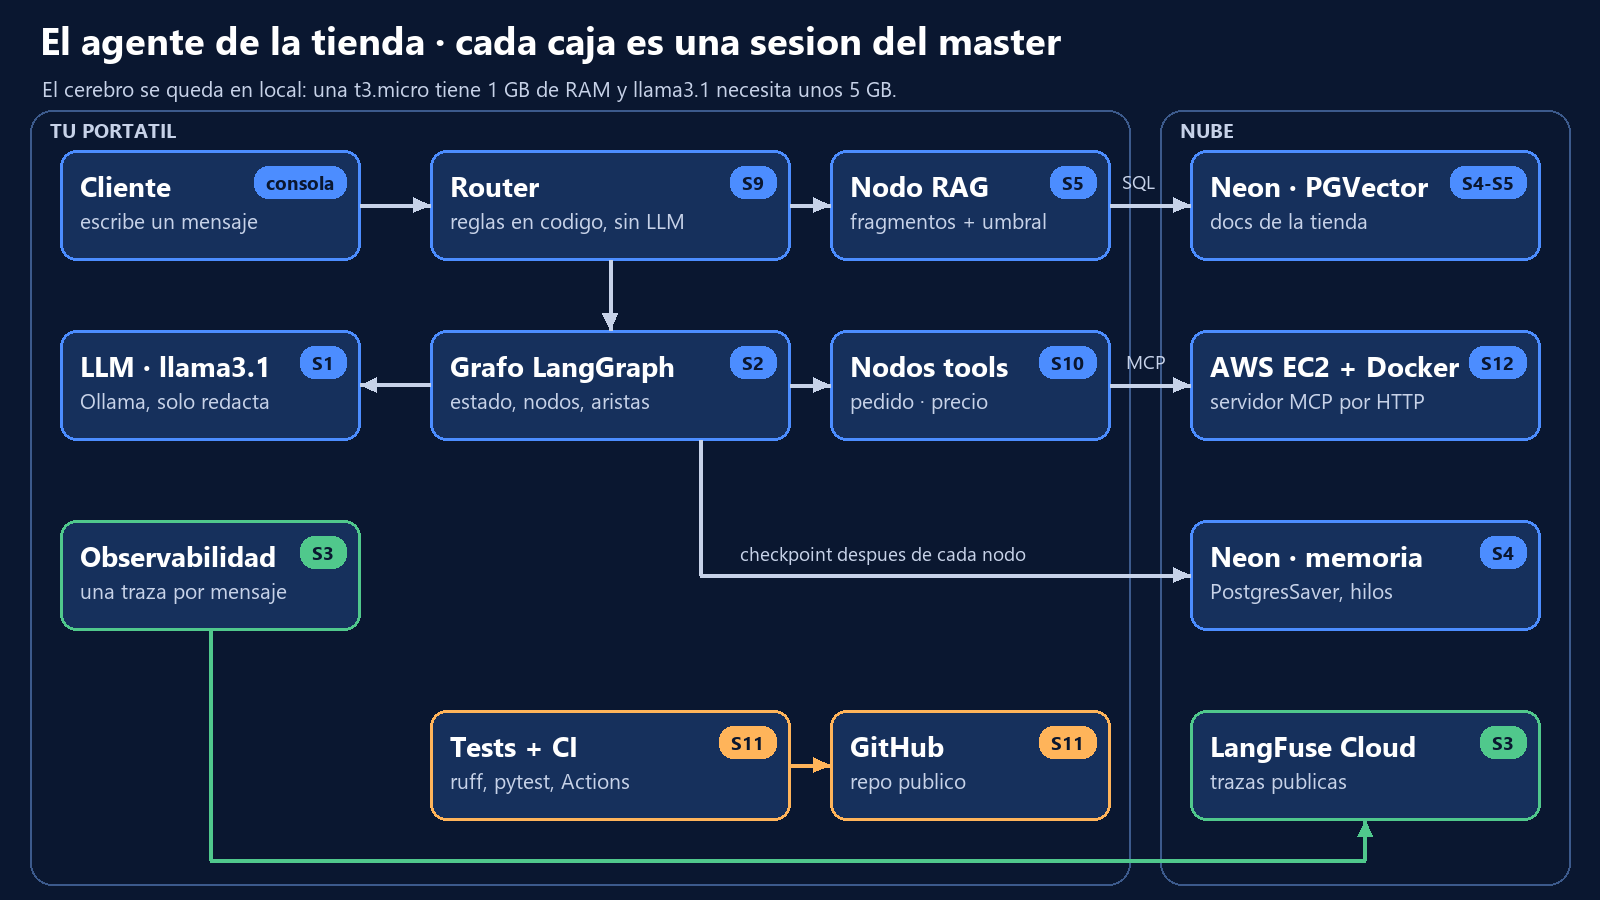
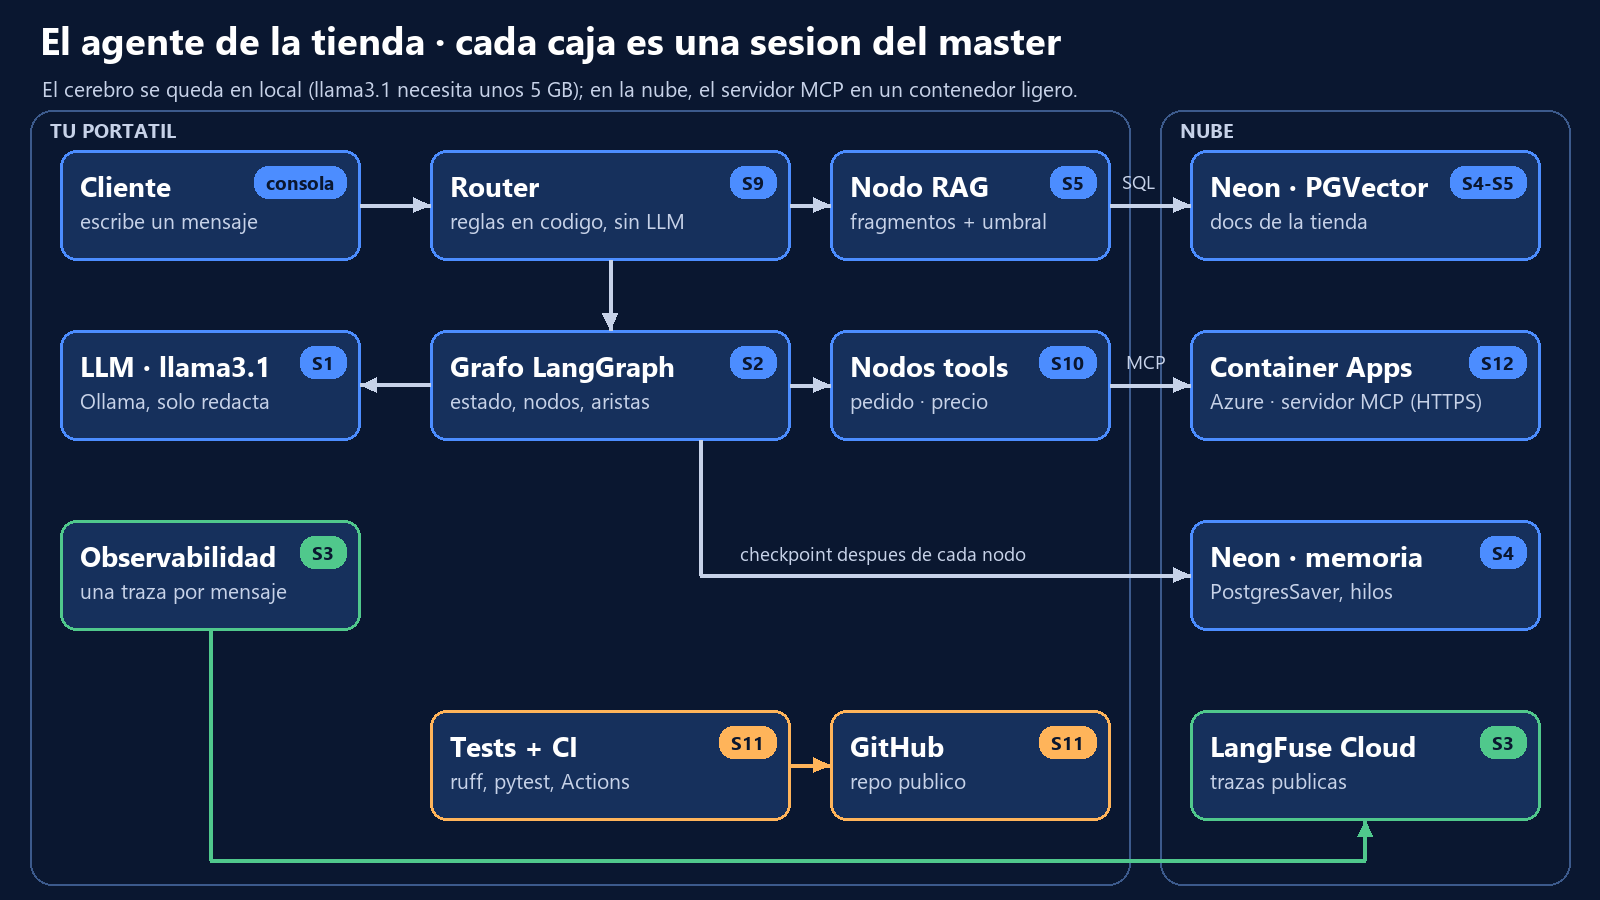
Produccion en Azure Container Apps y sin referencias a otro proveedor
- El servidor MCP se despliega con azure/desplegar.sh del repo mcp-server-ci (HTTPS, escala a cero, solo tu IP)
- README, PROMPTS.md, comentarios y .env.example actualizados; arquitectura.png con Container Apps
- Se quita la carpeta de scripts del proveedor anterior; sus salidas reales quedan como salidas/*_alternativa.txt

Changed region(s): [[0.75, 0.3733, 0.9375, 0.4667], [0.1875, 0.0933, 0.6562, 0.1244]]

diff --git a/config.py b/config.py
@@ -7,7 +7,7 @@ from dotenv import load_dotenv
 load_dotenv()  # si no hay .env (por ejemplo en la CI) no pasa nada: se usan las variables ya definidas
 
 MODELO = os.environ.get("MODELO", "llama3.1")  # el mismo LLM local de todo el master (Ollama)
-MCP_URL = os.environ.get("MCP_URL", "http://localhost:8000")  # el servidor MCP de la S10-S12 (local o en AWS)
+MCP_URL = os.environ.get("MCP_URL", "http://localhost:8000")  # el servidor MCP de la S10-S12 (local o en Azure)
 DATABASE_URL = os.environ.get("DATABASE_URL", "")  # Neon (S4): memoria del agente + PGVector
 TABLA_RAG = "tienda_fragmentos"  # tabla propia, para no pisar la de la S5 (fragmentos)
 

diff --git a/agente.py b/agente.py
@@ -1,6 +1,6 @@
 """El agente de la tienda: el proyecto final del master. Cada pieza es una sesion del curso.
 
-    router (reglas, S9) -> pedido | precio  (tools MCP en AWS, S10-S12)
+    router (reglas, S9) -> pedido | precio  (tools MCP en Azure, S10-S12)
                         -> rag              (PGVector en Neon, S4-S5)
                         -> charla
                         -> responder        (llama3.1 con Ollama, S1-S2)

diff --git a/tests/test_grafo.py b/tests/test_grafo.py
@@ -1,7 +1,7 @@
 """El grafo completo con piezas falsas: un LLM de mentira, memoria en RAM y tools/RAG simulados.
 
 Asi la CI comprueba el CABLEADO (router -> nodo -> responder, y la memoria entre turnos) sin Ollama,
-sin Neon y sin AWS. Lo caro se prueba a mano; lo que se rompe al tocar el codigo, en cada push.
+sin Neon y sin Azure. Lo caro se prueba a mano; lo que se rompe al tocar el codigo, en cada push.
 """
 
 import json

diff --git a/herramientas.py b/herramientas.py
@@ -1,7 +1,7 @@
 """Las herramientas del agente viven en el servidor MCP de la S10-S12 (mcp-server-ci), no aqui.
 
 El agente es un CLIENTE MCP por HTTP: le da igual que el servidor este en tu portatil (localhost)
-o en una EC2 de AWS. Solo cambia la variable MCP_URL.
+o en la nube (Azure Container Apps). Solo cambia la variable MCP_URL.
 """
 
 import asyncio

diff --git a/PROMPTS.md b/PROMPTS.md
@@ -8,7 +8,7 @@ Estos son los prompts que usamos en la práctica, en el mismo orden que en clase
 3. Ejecuta y compara con el apartado *Qué deberías ver*.
 4. Si no sale lo esperado, vuelve a pedírselo con lo que has aprendido.
 
-> Antes de empezar: todo lo del curso. Ollama con `llama3.1` (S1), tu base de datos de Neon de la S4 (`DATABASE_URL`), tus claves de LangFuse Cloud de la S3, el servidor MCP de la S10-S12 (repo `mcp-server-ci`) y Git con tu cuenta de GitHub (S11). AWS es opcional (S12). Todo va en un `.env` (plantilla en `.env.example`; **nunca subas tu `.env`**). Repositorio de referencia, público: https://github.com/ignaciothepower/agente-tienda. **Si usas AWS, al terminar apaga todo** (`bash aws/apagar.sh`).
+> Antes de empezar: todo lo del curso. Ollama con `llama3.1` (S1), tu base de datos de Neon de la S4 (`DATABASE_URL`), tus claves de LangFuse Cloud de la S3, el servidor MCP de la S10-S12 (repo `mcp-server-ci`) y Git con tu cuenta de GitHub (S11). Desplegar en Azure es opcional (paso 7, desde la Cloud Shell del portal de Azure, sin instalar nada en el portátil). Todo va en un `.env` (plantilla en `.env.example`; **nunca subas tu `.env`**). Repositorio de referencia, público: https://github.com/ignaciothepower/agente-tienda. **Si despliegas en Azure, al terminar apaga todo** (`bash azure/apagar.sh` en el repo `mcp-server-ci`).
 
 El resultado de referencia, con todo el código comentado, está en la carpeta `agente-tienda` del material de la sesión.
 
@@ -84,7 +84,7 @@ Cuatro fragmentos, todos por debajo de 0,72, y el primero (0,382) es justo el de
 - Reutilizamos el servidor de la S10-S12
 - Cliente MCP por Streamable HTTP
 - consultar_pedido y convertir_precio
-- MCP_URL: local o AWS
+- MCP_URL: local o Azure Container Apps
 
 **Prompt**
 
@@ -144,20 +144,20 @@ Run #1, segundo intento: calidad y secretos en verde. El primer intento fallo a 
 
 **Qué construye**
 
-- CloudShell: sin claves en el portatil
-- EC2 t3.micro + Docker (S12)
-- MCP_URL = la IP de la EC2
-- apagar.sh: todo a cero
+- Cloud Shell del portal de Azure: nada que instalar en el portatil
+- Azure Container Apps: imagen construida desde el Dockerfile, HTTPS, de 0 a 1 replica
+- MCP_URL = la URL https://...azurecontainerapps.io
+- azure/apagar.sh: borra el grupo de recursos y comprueba que no queda nada
 
 **Prompt**
 
 ```text
-Despliega la parte del agente que cabe en la capa gratuita (Sesion 12): el servidor MCP de la tienda en una EC2 t3.micro con Docker, lanzado desde AWS CloudShell con un script (security group solo con mi IP, par de claves, IMDSv2) y otro script para apagarlo todo y comprobar que queda a cero. Conecta el agente de mi portatil a esa URL y comprueba que funciona de punta a punta en la nube. Explicame por que el LLM no cabe en una t3.micro y que haria falta para tenerlo todo en la nube. Recuerdame apagar los recursos.
+Guiame para desplegar el servidor MCP de la tienda en Azure Container Apps desde la Cloud Shell del portal de Azure, sin instalar nada en mi portatil, con los scripts del repo del servidor: git clone https://github.com/ignaciothepower/mcp-server-ci.git && cd mcp-server-ci, export MI_IP=<IP publica de mi portatil> y bash azure/desplegar.sh. Antes de ejecutarlos, lee azure/desplegar.sh y azure/apagar.sh y explicame que hace cada paso (az containerapp up --source . construye la imagen en la nube desde el Dockerfile, HTTPS, escala de 0 a 1 replica y una regla de acceso que solo deja entrar a mi IP). Despues pon la URL https://...azurecontainerapps.io en MCP_URL del .env (el agente no cambia y el cerebro, llama3.1, sigue en local), prueba /salud y un turno del agente en el hilo luis: el pedido 5678 y luego "¿Y cuanto es eso en libras?". Explicame por que el LLM (unos 5 GB) se queda en mi portatil y que haria falta para tenerlo todo en la nube. Al acabar, apaga con bash azure/apagar.sh y comprueba que no queda nada.
 ```
 
 **Qué deberías ver**
 
-2 min 21 s de un comando a un servidor MCP respondiendo en AWS. La IP de tu portatil, la unica que puede entrar al 8000.
+La URL https de la app al terminar desplegar.sh, /salud respondiendo con estado ok desde tu portatil y, desde la Cloud Shell, un 403 porque no es tu IP. El agente de tu portatil contesta al pedido 5678 y a la conversion a libras usando el MCP en Azure. Tras azure/apagar.sh, el grupo de recursos ya no existe.
 
 ---
 
@@ -194,7 +194,7 @@ Una conversacion como la de Ana, pero en tu dominio, con sus trazas y la CI en v
 **Prompt**
 
 ```text
-Lleva mi agente conversacional a nivel de portfolio: 1) opcion B, cambia el LLM local por una API gratuita (por ejemplo Gemini free tier) con la clave en GitHub Secrets y despliega el agente completo (Render, Railway o AWS) para que sea accesible; 2) anade un nodo que compruebe que la respuesta solo usa los datos recuperados (como el CRAG de la Sesion 6); 3) crea en LangFuse un dataset de 5 preguntas con su respuesta esperada y evaluame el agente; 4) escribe un README de portfolio con arquitectura, decisiones, costes y como apagarlo.
+Lleva mi agente conversacional a nivel de portfolio: 1) opcion B, cambia el LLM local por un LLM por API (por ejemplo Azure OpenAI o la capa gratuita de Gemini) con la clave en GitHub Secrets y despliega el agente entero en Azure Container Apps, Render o Railway para que sea accesible; 2) anade un nodo que compruebe que la respuesta solo usa los datos recuperados (como el CRAG de la Sesion 6); 3) crea en LangFuse un dataset de 5 preguntas con su respuesta esperada y evaluame el agente; 4) escribe un README de portfolio con arquitectura, decisiones, costes y como apagarlo.
 ```
 
 **Qué deberías ver**
@@ -203,4 +203,4 @@ La URL o un video de la demo, el experimento en LangFuse y un README que otro pu
 
 ---
 
-*Material del Master AI Engineer · The Power · Ignacio de Pastors*
+*Material del Máster AI Engineer · The Power*

diff --git a/README.md b/README.md
@@ -17,7 +17,7 @@ No hay ninguna tecnología nueva: cada pieza es una sesión del curso, y el graf
 | Herramientas | Servidor MCP propio por Streamable HTTP | S10 | `herramientas.py` + repo [mcp-server-ci](https://github.com/ignaciothepower/mcp-server-ci) |
 | Observabilidad | LangFuse Cloud: una traza por mensaje, con cada nodo | S3, S11 | `agente.py` |
 | Calidad | ruff + pytest (LLM falso, memoria en RAM) + GitHub Actions | S11 | `tests/`, `.github/workflows/ci.yml` |
-| Despliegue | El servidor MCP en una EC2 t3.micro con Docker | S12 | `aws/` |
+| Despliegue | El servidor MCP en Azure Container Apps (HTTPS, escala a cero, solo tu IP) | S12 | [mcp-server-ci](https://github.com/ignaciothepower/mcp-server-ci) `azure/` |
 | LLM | llama3.1 en local con Ollama | S1 | `config.py` |
 
 ## Por qué un router y no "tool calling"
@@ -51,17 +51,18 @@ python agente.py --hilo ana "¿Y eso cuánto es en dólares?"
 python agente.py --hilo ana --historial
 ```
 
-## Desplegar el servidor MCP en AWS
+## Desplegar el servidor MCP en Azure
 
-Desde AWS CloudShell (sin access keys), con el repositorio clonado:
+Desde la Cloud Shell del portal de Azure (nada que instalar en el portátil), con el repositorio del servidor:
 
 ```bash
-export PORTATIL_IP=<la IP de tu portátil>
-bash aws/desplegar_mcp.sh      # EC2 t3.micro + Docker; al final te dice la MCP_URL
-bash aws/apagar.sh             # SIEMPRE al acabar: todo a 0
+git clone https://github.com/ignaciothepower/mcp-server-ci.git && cd mcp-server-ci
+export MI_IP=<la IP pública de tu portátil>      # en el portátil: curl https://api.ipify.org
+bash azure/desplegar.sh        # Container Apps: construye la imagen en la nube y te dice la URL
+bash azure/apagar.sh           # SIEMPRE al acabar: borra el grupo de recursos y comprueba que no queda nada
 ```
 
-Pon la `MCP_URL` que te devuelve en tu `.env` y el agente usará las herramientas en la nube. El "cerebro" (LangGraph + llama3.1) se queda en tu portátil: una t3.micro tiene 1 GB de RAM y un LLM de 8B necesita unos 5 GB. Para tenerlo todo en la nube habría que cambiar el LLM local por una API (por ejemplo Gemini, capa gratuita) y desplegar el agente también.
+Pon la URL que te devuelve (`https://...azurecontainerapps.io`) como `MCP_URL` en tu `.env` y el agente usará las herramientas en la nube. El "cerebro" (LangGraph + llama3.1) se queda en tu portátil: un LLM de 8B necesita unos 5 GB y sin GPU tardaría minutos en responder. Para tenerlo todo en la nube habría que cambiar el LLM local por una API (por ejemplo Azure OpenAI, o la capa gratuita de Gemini para practicar) y desplegar el agente también.
 
 ## Tests y CI
 
@@ -81,7 +82,6 @@ herramientas.py   cliente MCP por HTTP
 config.py         variables de entorno
 docs/             los documentos de la tienda (ficticios)
 tests/            pytest
-aws/              desplegar y apagar el servidor MCP en AWS
 ```
 
 Material docente de The Power. La tienda, sus pedidos y sus políticas son ficticios.

diff --git a/soluciones/README.md b/soluciones/README.md
@@ -11,13 +11,13 @@ La solución de referencia es **este mismo repositorio**. Para adaptarlo a tu do
 5. Tres mensajes en procesos distintos con el mismo `--hilo`, `--historial`, y abre las trazas en LangFuse.
 6. `ruff check . && ruff format --check . && pytest`, push, y CI en verde.
 
-**Así debe verse**: las salidas reales de la clase están en `salidas/` (`03`-`07` = la conversación de Ana, `09`-`10` = Luis con las tools en AWS).
+**Así debe verse**: las salidas reales de la clase están en `salidas/` (`03`-`07` = la conversación de Ana, `09`-`10` = Luis con las tools en la nube).
 
 ## Ejercicio 2 · Reto: tu pieza estrella del portfolio
 
 Pistas (esta parte **no se ejecutó en clase**):
 
-- **Todo en la nube (opción B)**: en `construir()` cambia `ChatOllama` por `ChatGoogleGenerativeAI(model="gemini-2.5-flash")` de `langchain-google-genai`, con `GOOGLE_API_KEY` en `.env` y en GitHub Secrets. El grafo, la memoria, el RAG y las tools no cambian. Despliega el agente con su Dockerfile en Render, Railway o una EC2.
+- **Todo en la nube (opción B)**: en `construir()` cambia `ChatOllama` por `ChatGoogleGenerativeAI(model="gemini-2.5-flash")` de `langchain-google-genai`, con `GOOGLE_API_KEY` en `.env` y en GitHub Secrets. El grafo, la memoria, el RAG y las tools no cambian. Despliega el agente con su Dockerfile en Azure Container Apps, Render o Railway.
 - **Validar la respuesta**: añade un nodo `validar` entre `responder` y `END` que pregunte al LLM si la respuesta usa solo `DATOS` (sí/no) y, si no, responda con una frase segura (como el CRAG de la S6).
 - **Evaluación**: crea en LangFuse un dataset con 5 preguntas y su respuesta esperada y lanza un experimento (S3).
 - **Router mixto**: si ninguna regla encaja, pide al LLM una etiqueta de la lista cerrada `pedido | precio | rag | charla` con salida estructurada y valida el resultado en código.
